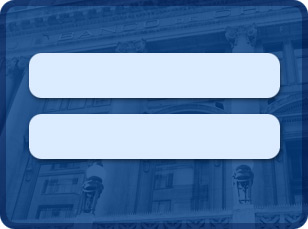
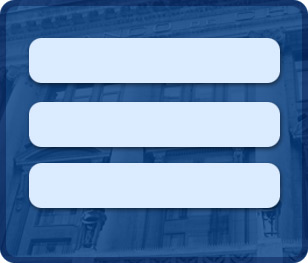
ajuste caja login

diff --git a/sip/public/stylesheets/log.css b/sip/public/stylesheets/log.css
@@ -26,14 +26,15 @@ body {
 	margin-left: auto;
 }
 .contenido .cajaLog .caja1 {
-	height: 229px;
+	height: 263px;
 	width: 309px;
 	margin-right: auto;
 	margin-left: auto;
-	/*background-image: url(../images/caja1.jpg);*/
+	background-image: url(../images/caja1.jpg);
 	background-repeat: no-repeat;
 	background-position: center center;
 }
+
 .contenido .logCentro .titLogo {
 	height: 60px;
 	text-align: center;
@@ -44,33 +45,58 @@ body {
 	color: #036;
 }
 .contenido .cajaLog .caja1 .sep1 {
-	height: 53px;
+	height: 38px;
 	width: 308px;
+}
+.contenido .cajaLog .caja1 .sistema{
+	height: 45px;
+	width: 234px;
+	margin-right: auto;
+	margin-left: auto;
+	margin-bottom: 19px;
+	font-family: 'robotolight';
+	font-size: 14px;
+	font-weight: 300;
+	color: #036;
+	line-height:43px;
 }
 .contenido .cajaLog .caja1 .usuario {
 	height: 45px;
 	width: 224px;
 	margin-right: auto;
 	margin-left: auto;
-	margin-bottom: 16px;
+	margin-bottom: 19px;
 	font-family: 'robotolight';
 	font-size: 14px;
 	font-weight: 300;
 	color: #036;
-	line-height:45px;
+	line-height:43px;
 }
-.contenido .cajaLog .caja1 .usuario input {
-	height: 45px;
+.contenido form .cajaLog .caja1 .sistema select {
+	font-size: 13px;
+	font-weight: 300;
+	color: #036;
+	height: 43px;
+	width: 170px;
+	padding-left: 10px;
 	border-top-style: none;
 	border-right-style: none;
 	border-bottom-style: none;
 	border-left-style: none;
-	background-color:transparent;
+	background-color: #dbecff;
+}
+.contenido .cajaLog .caja1 .usuario input {
+	height: 43px;
+	border-top-style: none;
+	border-right-style: none;
+	border-bottom-style: none;
+	border-left-style: none;
+	background-color:#dbecff;
 	font-family: 'robotolight';
 	font-size: 15px;
 	font-weight: 300;
 	color: #036;
-	width: 160px;
+	width: 150px;
 	padding-left: 5px;
 }
 .contenido .cajaLog .caja1 .usuario input:focus {
@@ -87,48 +113,24 @@ body {
 	font-weight: 300;
 	color: #036;
 	line-height:45px;
+	margin-bottom: 16px;
 }
 .contenido .cajaLog .caja1 .clave input {
-	height: 45px;
-	width: 160px;
+	height: 43px;
+	width: 150px;
 	border-top-style: none;
 	border-right-style: none;
 	border-bottom-style: none;
 	border-left-style: none;
-	background-color:transparent;
+	background-color:#dbecff;
 	font-family: 'robotolight';
 	font-size: 15px;
 	font-weight: 300;
 	color: #036;
 	padding-left: 5px;
+	line-height: 43px;
 }
 
-
-.contenido .cajaLog .caja1 .sistema {
-	height: 45px;
-	width: 224px;
-	margin-right: auto;
-	margin-left: auto;
-	font-family: 'robotolight';
-	font-size: 14px;
-	font-weight: 300;
-	color: #036;
-	line-height:45px;
-}
-.contenido .cajaLog .caja1 .sistema select {
-	height: 45px;
-	width: 160px;
-	border-top-style: none;
-	border-right-style: none;
-	border-bottom-style: none;
-	border-left-style: none;
-	background-color:transparent;
-	font-family: 'robotolight';
-	font-size: 14px;
-	font-weight: 300;
-	color: #036;
-	padding-left: 5px;
-}
 
 
 .contenido .cajaLog .caja1 .clave input:focus {
